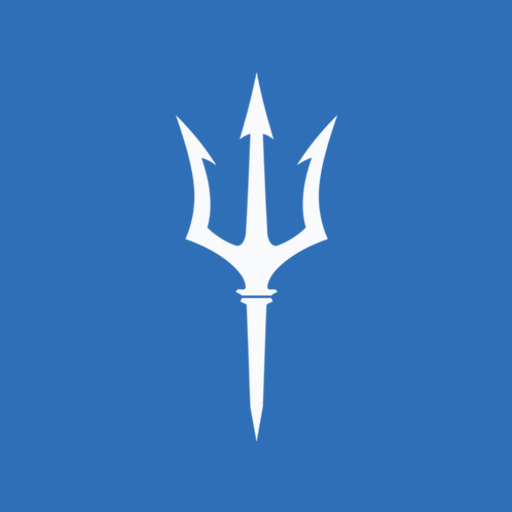
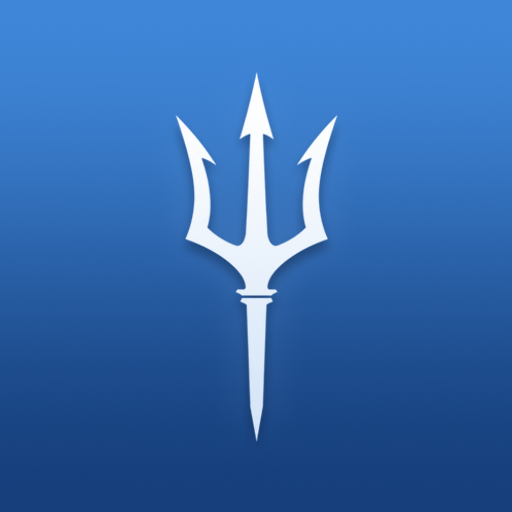
visual em degradê: ícone, splash e login + versionCode 4
- ícones (Play Store, PWA, favicon, launcher Android): tridente sobre degradê
  vertical #3F86D8 → #163F7C, com sombra suave
- splash web (modo claro): mesmo degradê, logos brancas com sombra
- login: header com o degradê e logos brancas (classe auth-header-marca,
  as outras telas de auth continuam com header branco)
- android: versionCode 4

diff --git a/front/public/index.html b/front/public/index.html
@@ -41,7 +41,8 @@
       position: fixed;
       inset: 0;
       z-index: 99999;
-      background: #2F6FB8;
+      /* Mesmo degradê vertical do ícone */
+      background: linear-gradient(180deg, #3F86D8 0%, #2A62AA 50%, #163F7C 100%);
       display: flex;
       flex-direction: column;
       align-items: center;
@@ -58,7 +59,7 @@
       object-fit: contain;
         margin-bottom: -75px;
       /* Logos são pretas com fundo transparente: viram brancas sobre o azul */
-      filter: brightness(0) invert(1);
+      filter: brightness(0) invert(1) drop-shadow(0 6px 10px rgba(8, 25, 55, 0.45));
 
     }
     #splash p {
@@ -91,6 +92,7 @@
       width: 30px;
       height: 30px;
       margin: 0;
+      filter: brightness(0) invert(1);
       /* Mesmo tom apagado do texto ao lado */
       opacity: 0.7;
     }

diff --git a/front/src/views/login.js b/front/src/views/login.js
@@ -73,7 +73,7 @@ function Login() {
             <div className="auth-card">
 
                 {/* ── HEADER ── */}
-                <div className="auth-header">
+                <div className="auth-header auth-header-marca">
                     <img src="/logo2.png" alt="Atlanteon" className="auth-logo" width="132" height="132" decoding="sync" fetchpriority="high" />
                     <img src="/logo_texto.png" alt="Atlanteon" className="auth-logo-texto" width="210" height="105" decoding="sync" />
                 </div>

diff --git a/front/src/styles/Auth.css b/front/src/styles/Auth.css
@@ -89,6 +89,20 @@
     margin-bottom: -30px; /* ~32,4% de 105 */
 }
 
+/* Login: mesmo degradê do ícone e da splash, com as logos (pretas) em branco */
+.auth-header-marca {
+    background: linear-gradient(180deg, #3F86D8 0%, #2A62AA 50%, #163F7C 100%);
+}
+
+.auth-header-marca::before {
+    display: none;
+}
+
+.auth-header-marca .auth-logo,
+.auth-header-marca .auth-logo-texto {
+    filter: brightness(0) invert(1) drop-shadow(0 4px 8px rgba(8, 25, 55, 0.45));
+}
+
 .auth-header-icon {
     width: 52px;
     height: 52px;
